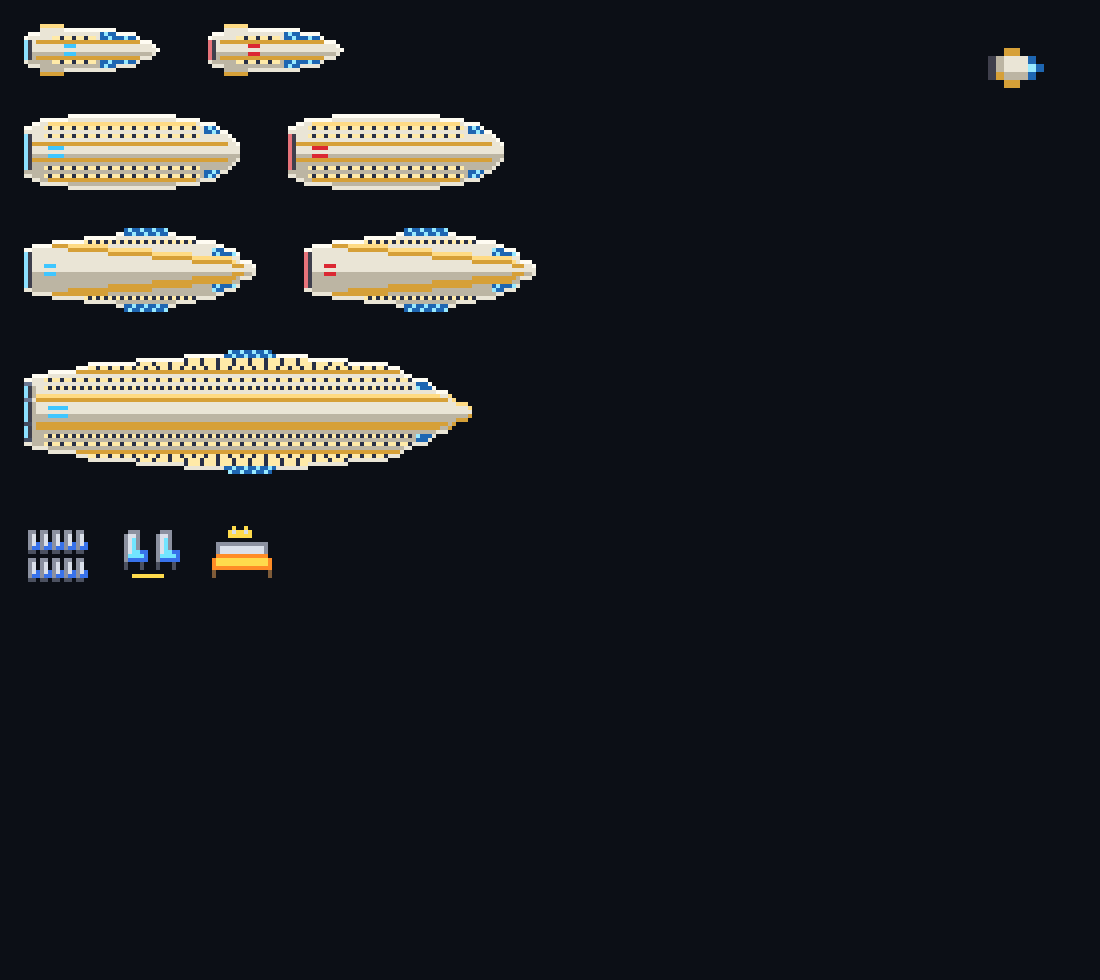
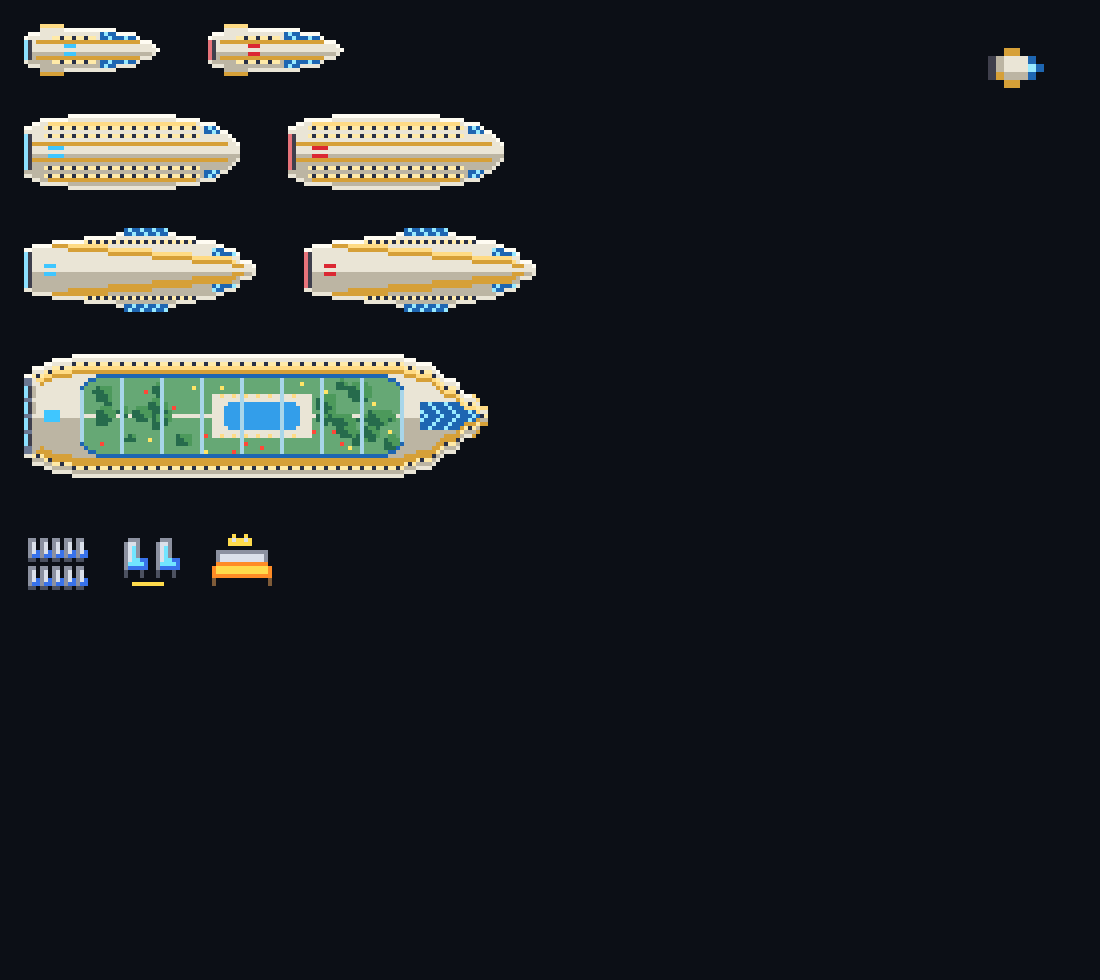
alpha 0.4.25.13: Empress redesigned with a park deck under a glass dome
- Narrower window sides, a long deck between the gold stripes: lawn, trees, flowers, pool with loungers
- Animated pool water and a glint running along the glass dome
- Full-height (non-mirrored) ship art and animated ship textures in PixelArt

Changed region(s): [[0.0, 0.3367, 0.4636, 0.4898], [0.0, 0.5204, 0.2473, 0.6122]]

diff --git a/Roadmap.md b/Roadmap.md
@@ -17,7 +17,7 @@ Sternenfront ist ein Einzelspieler-Spiel mit zuschaltbarem Koop – wie Valheim 
 
 ## Aktueller Stand
 
-Das Spiel ist ein umfangreicher Einzelspieler-Prototyp in Godot 4.3. Phase 0 und Phase 0.5 Teil 1 bis 3 sind abgeschlossen; Teil 4 (Module and Internal Ship Parts Rework) läuft – Pakete 19 bis 24 fertig, Pakete 25a (KHI-Bergbauschiffe), 25b (Kanayama-maru) und 25c (Maison Aurelle) fertig, als Nächstes 25d (Hadrian Dynamics). Netzwerk fehlt noch. Version alpha 0.4.25.12. Stand 5. November 2026.
+Das Spiel ist ein umfangreicher Einzelspieler-Prototyp in Godot 4.3. Phase 0 und Phase 0.5 Teil 1 bis 3 sind abgeschlossen; Teil 4 (Module and Internal Ship Parts Rework) läuft – Pakete 19 bis 24 fertig, Pakete 25a (KHI-Bergbauschiffe), 25b (Kanayama-maru) und 25c (Maison Aurelle) fertig, als Nächstes 25d (Hadrian Dynamics). Netzwerk fehlt noch. Version alpha 0.4.25.13. Stand 5. November 2026.
 
 | Bereich | Stand |
 | --- | --- |
@@ -870,6 +870,7 @@ Vorgehen (5. Nov 2026 vereinbart): **Paket 24 = Planung.** Alle Manufakturen und
 - [x] Pixel-Art: lange, glatte Elfenbein-Rümpfe mit Perlweiß-Kante, Goldlinien, Fensterreihen und Glasbrücke; Opal mit geschwungener Goldlinie und Glas-Lounge, Empress mit gestuften Decks und Glaskuppel. Bleibt elfenbein, egal wem das Schiff gehört.
 - [x] Verkauf nur an Werften der Handelsstationen in reichen, sicheren Systemen (Sicherheit ≥ 0,65) der Assembly und des Covenant – im Directorate keine.
 - [x] In diesen Systemen fliegen Boulevards als NPC-Linienschiffe zwischen den Stationen (gut ein Drittel der Shuttles).
+- [x] Empress neu gezeichnet (0.4.25.13): schmalere Fensterseiten, dazwischen zwischen den beiden Goldstreifen ein langes Parkdeck unter einer Glaskuppel mit Streben – Rasen, Bäume, Blumen, Promenade und ein Pool mit Sonnenliegen. Animiert: Wellen auf dem Pool, ein Lichtreflex läuft über die Kuppel. Als erste Art in voller Höhe gezeichnet (nicht gespiegelt).
 
 ### Stationstyp 0 (Paket 26)
 

diff --git a/README.md b/README.md
@@ -98,7 +98,8 @@ The sounds are synthesised. With `--smoketest` (or headless) the intro is skippe
   arrival or losing the ship with the passengers aboard costs standing with the issuing faction.
 - **Pearl** (S), **Boulevard** (M), **Opal** (M) and **Empress** (L): fast, luxurious, expensive; built-in
   afterburner (Pearl, Boulevard, Opal), Empress with fast warp, strong shields, +25 % on luxury contracts,
-  half-size cargo racks and white drones with their own shield. Sold at trade hubs of rich, safe
+  half-size cargo racks and white drones with their own shield. The Empress carries a park with trees and a
+  pool under a glass dome (animated). Sold at trade hubs of rich, safe
   Assembly and Covenant systems; Boulevard liners fly between the stations there.
 
 ## Kanayama-maru – heavy industry ship (phase 0.5 package 25b)

diff --git a/CHANGELOG.md b/CHANGELOG.md
@@ -3,6 +3,11 @@
 Versions follow **alpha Phase.Teil.Paket.laufende Nummer** (see Roadmap.md → Arbeitsweise & Übergabe).
 Every update gets its own entry, a commit and a git tag `v<version>`.
 
+## alpha 0.4.25.13 – 2026-11-05
+
+- Empress redesigned: narrower window sides and a long park deck under a glass dome between the gold
+  stripes – lawn, trees, flowers and a pool with sun loungers; animated pool water and a glint on the dome.
+
 ## alpha 0.4.25.12 – 2026-11-05
 
 **Package 25c – Maison Aurelle and passenger transport.**
